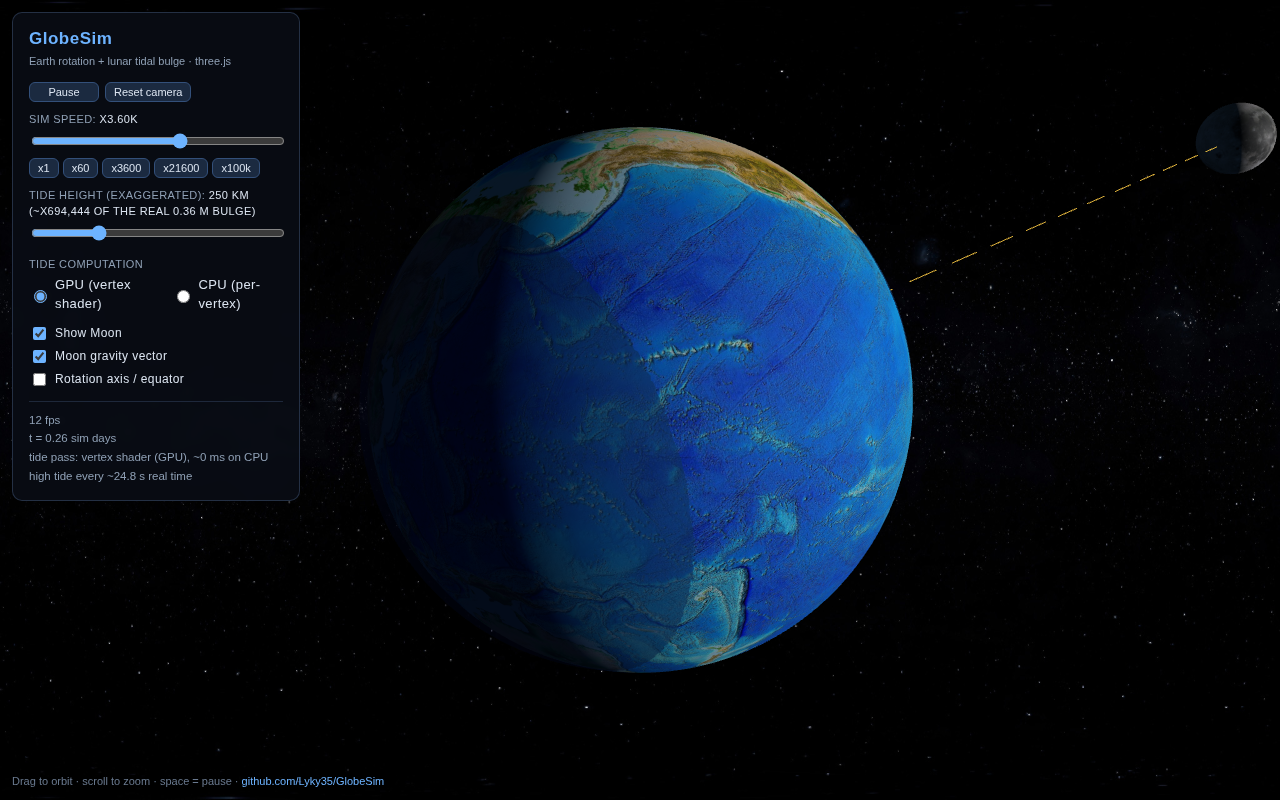
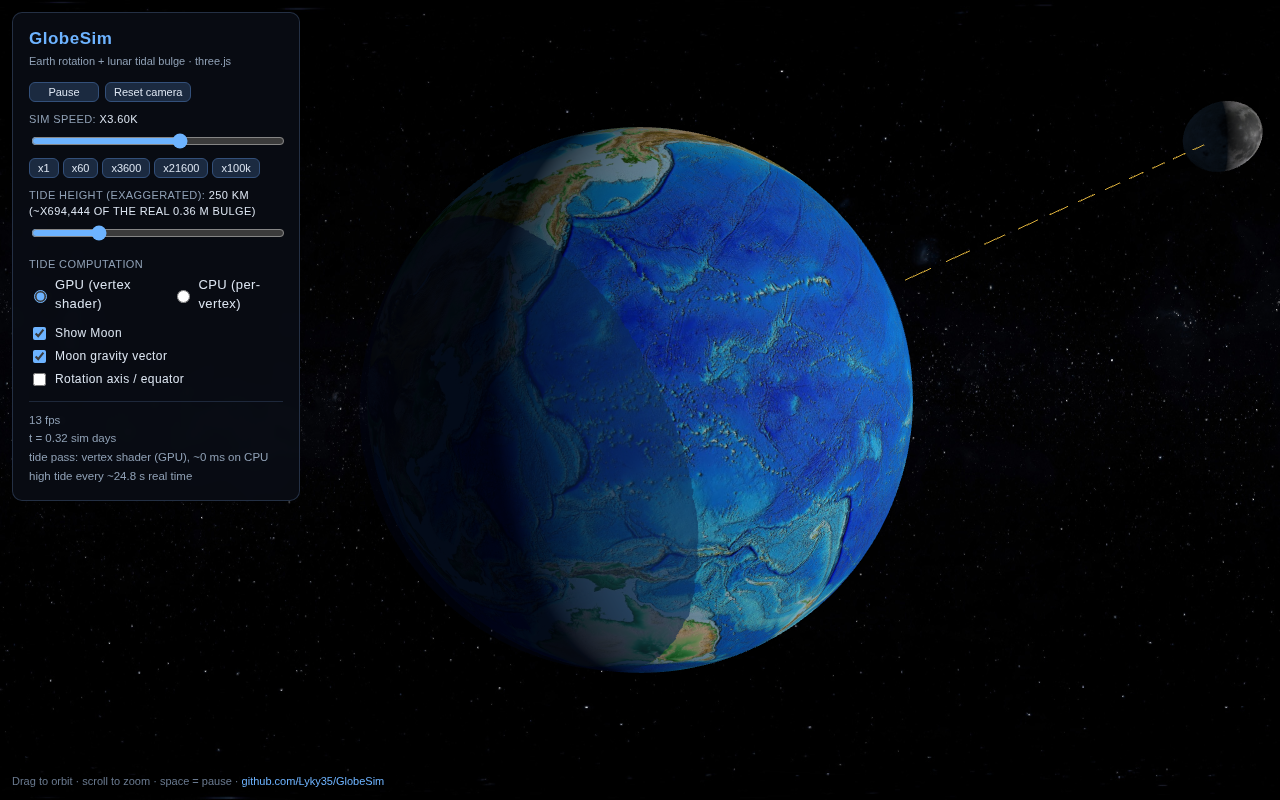
Fix high-tide interval stat (two high tides per lunar day); refresh screenshot

Changed region(s): [[0.375, 0.1562, 0.7188, 0.8438], [0.9062, 0.125, 1.0, 0.2188]]

diff --git a/src/main.js b/src/main.js
@@ -219,8 +219,10 @@ $('btn-reset').addEventListener('click', () => {
 
 // Static part of the stats panel (tide period etc).
 function updateStatsStatic() {
-  // Time between successive high tides at a fixed point ~ half a lunar day.
-  const lunarDay = 2 * SIDEREAL_DAY_S * SIDEREAL_MONTH_S / (SIDEREAL_MONTH_S - SIDEREAL_DAY_S);
+  // Lunar day (Sun-to-Sun... Moon-to-Moon passage of the meridian):
+  // 1 / (1/sidereal day - 1/sidereal month). Fixed points see two high
+  // tides per lunar day, hence lunarDay / 2 between high tides.
+  const lunarDay = SIDEREAL_DAY_S * SIDEREAL_MONTH_S / (SIDEREAL_MONTH_S - SIDEREAL_DAY_S);
   $('stat-period').textContent =
     `high tide every ~${fmtH((lunarDay / 2) / state.speed)} real time`;
 }
